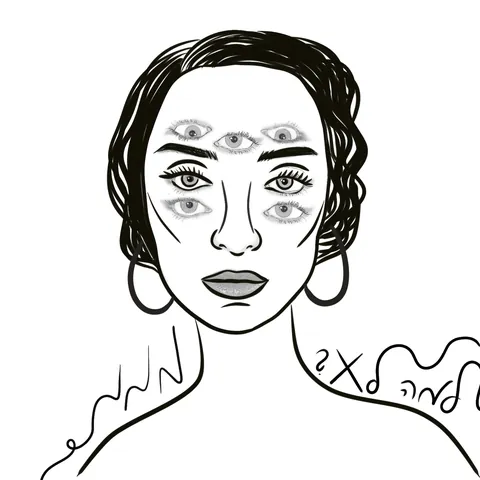
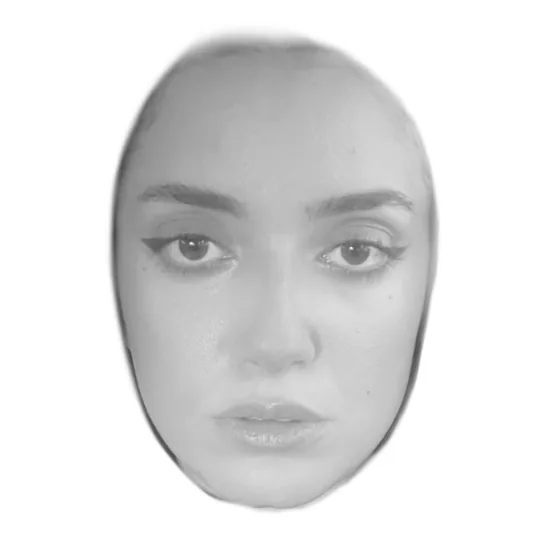
אנימציית האודות בסדר שבחרת: מהתמונה האמיתית אל הציורים, הפנים מיושרות בכל הפריימים
Claude-Session: https://claude.ai/code/session_01EdftsxnPsh1hyQnG82iFW6

diff --git a/index.html b/index.html
@@ -334,7 +334,7 @@ p{margin:0}
 .bio{grid-column:3/13;font-size:var(--s-stmt);line-height:1.22;letter-spacing:-.012em}
 .bio p+p{margin-top:1.2em;color:var(--ink-soft)}
 .portrait{float:inline-start;width:3.66em;height:3.66em;margin-inline-end:.5em;margin-top:.12em;position:relative}
-/* the portrait flips through her self-portrait drawings like a flipbook (frames in about/frames) */
+/* the portrait flips from her photo into her drawings of it, like a flipbook (frames in about/frames, faces lined up) */
 .portrait{width:5.2em;height:5.2em;margin-inline-end:.55em}
 .pf{position:absolute;inset:0;overflow:hidden;background:#fff;border-radius:3px;box-shadow:0 1px 2px rgba(0,0,0,.08),0 8px 22px -10px rgba(0,0,0,.35);transform:rotate(-1.5deg)}
 .pf img{display:block;width:100%;height:100%;object-fit:cover}
@@ -1243,13 +1243,13 @@ if (!reduce) {
 /* 2. (film grain removed, user 2026-10-24) */
 
 /* about portrait: flips through the self-portrait frames at a set pace.
-   PF_FIRST = how long the first (halftone) portrait stays, PF_STEP = each other frame, in ms.
+   PF_FIRST = how long the first frame (her photo) stays, PF_STEP = each other frame, in ms.
    Runs only while on screen, pauses under the mouse, and stays still for reduced motion. */
 (() => {
   const img = document.getElementById('pf-img');
   if (!img) return;
-  const PF_FIRST = 1800, PF_STEP = matchMedia('(max-width:640px)').matches ? 520 : 460;
-  const N = 19, src = i => `about/frames/f${String(i).padStart(2, '0')}.webp`;
+  const PF_FIRST = 1500, PF_STEP = matchMedia('(max-width:640px)').matches ? 650 : 600;
+  const N = 11, src = i => `about/frames/f${String(i).padStart(2, '0')}.webp`;
   if (matchMedia('(prefers-reduced-motion:reduce)').matches) return;
   let i = 0, t = 0, seen = false, hover = false, loaded = false;
   const load = () => { if (loaded) return; loaded = true; for (let k = 1; k < N; k++) { const im = new Image(); im.src = src(k); } };
